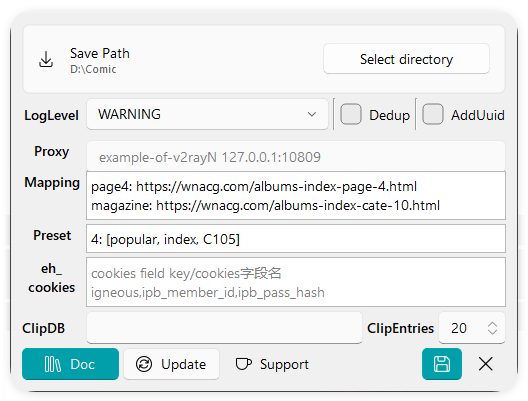
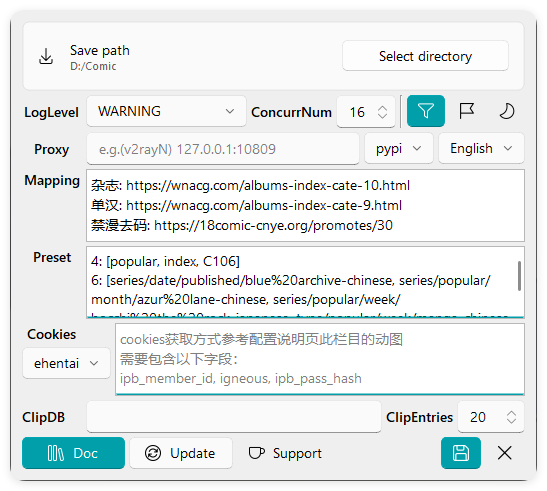
build: v2.4.2

diff --git a/variables/__init__.py b/variables/__init__.py
@@ -2,7 +2,7 @@
 # -*- coding: utf-8 -*-
 from assets import res
 
-VER = "v2.4.1"
+VER = "v2.4.2"
 
 LANG = {
     "en_US": "English",

diff --git a/README.md b/README.md
@@ -32,7 +32,7 @@
 | 网站                                    | 适用区域 |    补充说明    | 状态<br>(UTC+8) |
 |:--------------------------------------|:----:|:----------:|:----:|
 | [拷贝漫画](https://www.2025copy.com/)    | :cn: | | ![status_kaobei](https://img.shields.io/endpoint?url=https://cgs-status-badges.pages.dev/status_kaobei.json) |
-| [Māngabz](https://mangabz.com)        | :cn: | 代理 | ![status_mangabz](https://img.shields.io/endpoint?url=https://cgs-status-badges.pages.dev/status_mangabz.json) |
+| [Māngabz](https://mangabz.com)        | :cn: | | ![status_mangabz](https://img.shields.io/endpoint?url=https://cgs-status-badges.pages.dev/status_mangabz.json) |
 | [禁漫天堂](https://18comic.vip/)          | :cn: |     🔞     | ![status_jm](https://img.shields.io/endpoint?url=https://cgs-status-badges.pages.dev/status_jm.json) |
 | [绅士漫画(wnacg)](https://www.wnacg.com/) | :cn: |     🔞     | ![status_wnacg](https://img.shields.io/endpoint?url=https://cgs-status-badges.pages.dev/status_wnacg.json) |
 | [ExHentai](https://exhentai.org/)     | 🌏 |     🔞/代理     | ![status_ehentai](https://img.shields.io/endpoint?url=https://cgs-status-badges.pages.dev/status_ehentai.json)  |
@@ -57,25 +57,15 @@
 
 #### 🎁 Features
 
-✅ 已打包上传至 pypi ，可使用 uv tool 管理/运行 CGS [查看细则](https://jasoneri.github.io/ComicGUISpider/deploy/quick-start)  
-✅ 支持日夜模式切换，已做字体颜色优化  
-✅ 新增支持 kemono的 discord 资源下载  
+✅ 支持 kemono 的 discord 资源下载  
+✅ 配置窗口新增 ui语言切换，同时更新了 ui，去重、增加标识改为图标触发按钮，详情查阅 [🔨主配置文档](https://jasoneri.github.io/ComicGUISpider/config)
 
 #### 🐞 Fix
 
-✅ 修复 domainTool 的 jm 域名检测  
-✅ 修复 kemomo 的 域名/api 变更相关
+✅ 优化 kemono 过滤相关, 增加发送提示  
+✅ 修复系统语言非简中时导致卡死在启动界面的情况  
 
 > 配置窗口左下设有`检查更新`按钮，请根据提示进行更新操作  
-
-<details>
-<summary> <code>v2.4.2-beta</code> 开发版特性👈看就点</summary>
-
-#### 🐞 Fix
-
-✅ 优化 kemono 过滤相关, 增加发送提示
-
-</details>
 
 > [🕑更新历史](docs/changelog/history.md) / [📝开发板](https://github.com/jasoneri/ComicGUISpider/projects?query=is%3Aopen)
 

diff --git a/docs/locate/en/config/index.md b/docs/locate/en/config/index.md
@@ -14,25 +14,51 @@
 Download directory  
 The `web` folder in the directory structure is because the default association with the [`redViewer`](https://github.com/jasoneri/redViewer) project is set like this
 
+---
+
 ### LogLevel / `log_level`
 
 After the background runs, there will be a log directory, which is the same level as the GUI, and the GUI will give operation guidance when an error occurs
 
+### ConcurrNum / `concurr_num`
+
+effect download speed  
+
 ### Dedup / `isDeduplicate`
 
+「filter icon button」  
 When checked, there will be a style hint in the preview window for downloaded  
 At the same time, the download will automatically filter out the existing records  
 > [!Info] Currently only applicable in 🔞
 
 ### AddUuid / `addUuid`
 
+「flag icon button」  
 Add an identifier at the end of the directory when storing, which is used to handle different works with the same name
+
+### DarkMode / `darkTheme`
+
+「moon icon button」  
+switch mode base on boolean
+
+---
 
 ### Proxy / `proxies`
 
 Proxy
 
 > [!Info] It is recommended to configure the proxy here, rather than the global proxy mode, otherwise a lot of proxy traffic will be consumed when accessing the source
+
+### PypiSource / `pypi_source`
+
+If not pypi, choose pypi plz  
+
+### UiLanguage / `lang`
+
+Ddefault by system language  
+switch language will take effect after save and reboot
+
+---
 
 ### Mapping / `custom_map`
 
@@ -52,6 +78,9 @@ There will be a `number corresponding to the website` prompt when the mouse hove
 It is necessary to use `exhentai`  
 [🎬 Method of acquisition](https://raw.githubusercontent.com/jasoneri/imgur/main/CGS/ehentai_get_cookies_new.gif)  
 [🔗 Tool Website](https://tool.lu/en_US/curl/)
+Now support paste curl string to Edit, CGS will inner handle it.
+
+---
 
 ### ClipDb / `clip_db`
 
@@ -83,3 +112,8 @@ image file name suffix
 
 default:  
 bind rV(redViewer) script，use to start etc.  
+
+### `bg_path`
+
+default:  
+CGS will scan png under by bg_path，choose one to set background.  

diff --git a/docs/config/index.md b/docs/config/index.md
@@ -20,6 +20,8 @@
 默认值：&emsp;`win: D:\Comic`&emsp;`macOS: ~/Downloads/Comic`  
 目录结构里还有个 `web` 文件夹的情况是因为默认关联 [`redViewer`](https://github.com/jasoneri/redViewer) 项目而设的
 
+---
+
 ### 日志等级 / `log_level`
 
 后台运行过后会有 log 目录，GUI 与 后台 同级，报错时 GUI 会进行操作指引
@@ -30,13 +32,22 @@
 
 ### 去重 / `isDeduplicate`
 
-勾选状态下，预览窗口会有已下载的样式提示  
+「漏斗图标按钮」  
+激活状态下，预览窗口会有已下载的样式提示  
 同时下载也会自动过滤已存在的记录  
 > [!Info] 当前仅🔞网适用
 
 ### 增加标识 / `addUuid`
 
+「旗图标按钮」  
 存储时目录最后增加标识，用以处理同一命名的不同作品等（[对应逻辑](../faq/other.md#_1-去重，增加标识相关说明)）
+
+### 夜间模式 / `darkTheme`
+
+「月亮图标按钮」  
+形式为开关布尔值，根据值切换日间/夜间模式
+
+---
 
 ### 代理 / `proxies`
 
@@ -57,10 +68,12 @@
 3: 华为源
 ```
 
-### 夜间模式 / `darkTheme`
+### ui语言选择 / `lang`
 
-「pypi源选择框」右侧的「月亮图标」按钮  
-形式为开关布尔值，根据值切换日间/夜间模式
+「pypi源选择框」右侧的选择框，默认系统语言  
+切换语言需保存并关闭重启后生效
+
+---
 
 ### 映射 / `custom_map`
 
@@ -88,6 +101,8 @@
 :::warning 使用 exhentai 时必需设值
 设值后，大量下载导致被服务器对账号实施处理的后果自行负责  
 :::
+
+---
 
 ### 剪贴板db / `clip_db`
 

diff --git a/docs/faq/index.md b/docs/faq/index.md
@@ -13,18 +13,17 @@
 
 ### pypi换源指引
 
-先选出一个目前你的网络环境能打开的（[清华源](https://pypi.tuna.tsinghua.edu.cn/simple)
- / [阿里源](https://mirrors.aliyun.com/pypi/simple)
- / [华为源](https://repo.huaweicloud.com/repository/pypi/simple)
+先选出当前网络环境能打开的（[清华源](https://pypi.tuna.tsinghua.edu.cn/simple/)
+ / [阿里源](https://mirrors.aliyun.com/pypi/simple/)
+ / [华为源](https://repo.huaweicloud.com/repository/pypi/simple/)，网址后缀加上 comicguispider 检测
 ）
 
 ::: warning 不限以下两种，所有文档的所有涉及pypi源命令因网络问题出错的都是更换源网址这样去处理
 :::
 
-#### Ⅰ. 初次部署换源
+#### Ⅰ. 绿色包部署换源
 
-::: tip 默认安装时使用pypi清华源  
-以下是切换至阿里源命令示例，在解压目录开终端
+::: tip 默认是清华源，以下是切换至阿里源命令示例，在解压目录开终端
 
 ```cmd
 .\CGS.exe -i https://mirrors.aliyun.com/pypi/simple
@@ -33,7 +32,7 @@
 
 #### Ⅱ. CGS更新/脚本集(kemono)额外依赖换源
 
-默认使用pypi清华源，换源通过 [配置窗口点选更换](/config/#pypi%E6%BA%90-pypi-source)  
+默认使用清华源，换源通过 [配置窗口点选更换](/config/#pypi%E6%BA%90-pypi-source)  
 
 ## 2. 爬虫
 

diff --git a/docs/_github/release_notes.md b/docs/_github/release_notes.md
@@ -1,16 +1,13 @@
 
-> [!Warning]  
-> 由于绿色包内部执行已更改为 `uv tool`，`v2.4.0`之前旧版绿色包需删掉后使用新版本，无论win还是mac；  
-> 使用内置更新升级失败的话查看 [更新失败指引](https://jasoneri.github.io/ComicGUISpider/faq/#%E6%9B%B4%E6%96%B0%E5%A4%B1%E8%B4%A5%E5%90%8E%E7%A8%8B%E5%BA%8F%E6%97%A0%E6%B3%95%E6%89%93%E5%BC%80)  
+> [!Tip]  
+> win-绿色包注意：`_pystand_static.int`首行 version 非 `v1` 或没 version 时，需要重新下绿色包解压覆盖以支持后续功能  
 
 ## 🎁 Feat
 
-✅ 已打包上传至 pypi ，可使用 uv tool 管理/运行 CGS [查看细则](https://jasoneri.github.io/ComicGUISpider/deploy/quick-start)  
-✅ 支持日夜模式切换，已做字体颜色优化  
-✅ ✨新增支持 kemono的 discord 资源下载  
+✅ 新增支持 kemono 的 discord 资源下载  
+✅ 配置窗口新增 ui语言切换，同时更新了 ui，去重、增加标识改为图标触发按钮，详情查阅 [🔨主配置文档](https://jasoneri.github.io/ComicGUISpider/config)
 
 ## 🐞 Fix
 
-✅ kemono 域名更换  
-✅ 修复 domainTool 的 jm 域名检测  
-✅ ✨修复 kemomo 的 api 变更相关
+✅ 优化 kemono 过滤相关, 增加发送提示  
+✅ 修复系统语言非简中时导致卡死在启动界面的情况  

diff --git a/docs/deploy/quick-start.md b/docs/deploy/quick-start.md
@@ -81,8 +81,12 @@ cgs-cli --help
 
 + 或 uv tool 管理的 `uv tool upgrade ComicGUISpider`
 
-+ 或 win-绿色包 `.\CGS.exe -v 2.4.1 -i https://pypi.tuna.tsinghua.edu.cn/simple`  
-需要 `解压目录/_pystand_static.int` 首行 version 为 `v1`，否则从最新版绿色包获取
++ 或 win-绿色包 安装指定版本，例如 `2.4.1`  
+需 `解压目录/_pystand_static.int` 首行含 version 且大于等于 `v1`，否则从最新版绿色包获取
+
+```cmd
+.\CGS.exe -v 2.4.1 -i https://pypi.tuna.tsinghua.edu.cn/simple
+```
 
 ## 5. 搭配阅读器
 
